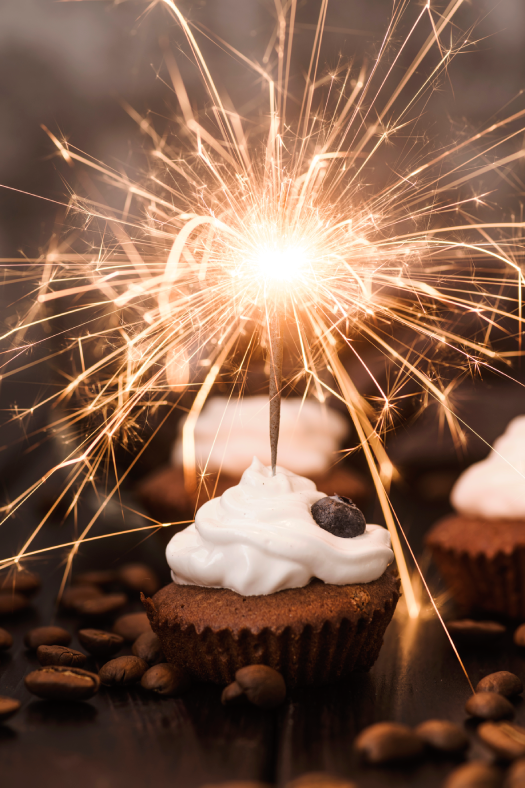
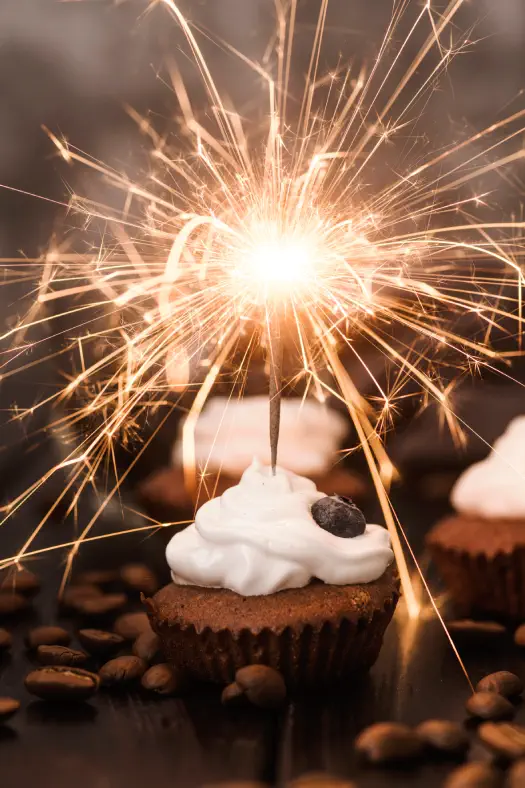
speedtest: test de vitesse de la page anniversaire compression de toute les images

diff --git a/Anniversaires/anniversaire.css b/Anniversaires/anniversaire.css
@@ -37,8 +37,8 @@ main {
 }
 
 .birthday-picture{
-  max-width: 350px;
-  max-height: 525px;
+  width: 350px;
+  height: 525px;
 }
 @media screen and (min-width: 950px) {
 	.content {
